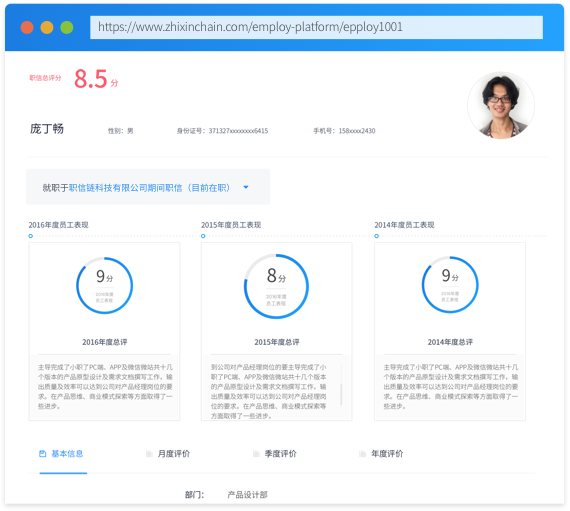
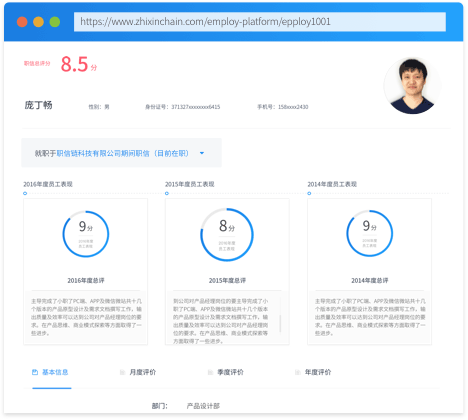
2018-1-16职链3+n版

diff --git a/public/css/app.css b/public/css/app.css
@@ -1939,8 +1939,6 @@ html .wrap .c-body .c-component-vouchers .vouchers-3, body .wrap .c-body .c-comp
 .wrap .component-index {
   /* 头部 */
   /*第二屏开始*/
-  /*标题*/
-  /*小标题*/
   /*内容*/
   /*第二屏结束*/
   /*第三屏*/
@@ -1974,9 +1972,6 @@ html .wrap .c-body .c-component-vouchers .vouchers-3, body .wrap .c-body .c-comp
     white-space: nowrap; }
   .wrap .component-index .head-menu-userInfo .span-hand {
     cursor: pointer; }
-  .wrap .component-index .zi18 {
-    font-size: 18px;
-    margin-bottom: 133px; }
   .wrap .component-index a {
     text-decoration: none; }
   .wrap .component-index .head_fixed {
@@ -1996,22 +1991,27 @@ html .wrap .c-body .c-component-vouchers .vouchers-3, body .wrap .c-body .c-comp
       padding-top: 14px;
       padding-right: 60px; }
     .wrap .component-index #header .menu {
-      float: left; }
+      float: left;
+      width: 950px;
+      font-size: 16px; }
       .wrap .component-index #header .menu li {
         float: left;
-        margin: 0 24px;
+        margin-left: 40px;
         list-style-type: none;
-        padding-top: 34px;
-        width: 100px;
+        padding-top: 40px;
         text-align: center; }
         .wrap .component-index #header .menu li.cur {
           height: 99px;
           border-bottom: 2px solid #FE8C5F; }
-        .wrap .component-index #header .menu li.buy {
-          cursor: pointer;
-          width: 100%;
-          display: block;
-          color: #FF500A; }
+        .wrap .component-index #header .menu li.menu-try {
+          width: 64px;
+          color: #FF500A;
+          margin-left: 24px;
+          cursor: pointer; }
+        .wrap .component-index #header .menu li.menu-buy {
+          width: 64px;
+          color: #FF500A;
+          cursor: pointer; }
         .wrap .component-index #header .menu li.select {
           cursor: pointer; }
         .wrap .component-index #header .menu li a {
@@ -2019,11 +2019,16 @@ html .wrap .c-body .c-component-vouchers .vouchers-3, body .wrap .c-body .c-comp
           cursor: pointer;
           width: 100%;
           display: block; }
+        .wrap .component-index #header .menu li.loginAndSignIn {
+          width: 205px;
+          padding-top: 26px; }
+        .wrap .component-index #header .menu li.SignIn {
+          width: 120px; }
   .wrap .component-index #index {
     height: 524px;
     min-width: 1400px; }
     .wrap .component-index #index .banner-1 {
-      padding-top: 178px;
+      padding-top: 160px;
       text-align: center;
       color: white;
       font-size: 64px; }
@@ -2049,21 +2054,25 @@ html .wrap .c-body .c-component-vouchers .vouchers-3, body .wrap .c-body .c-comp
         color: white;
         cursor: pointer; }
   .wrap .component-index .zi48 {
-    font-size: 48px;
+    font-size: 36px;
     color: #40BEFF;
     line-height: 48px;
     display: inline-block;
     margin: 0 auto;
     padding: 0 80px; }
-  .wrap .component-index .title {
-    height: 140px;
-    /*块内元素居中*/
-    text-align: center;
-    margin-top: 133px; }
-  .wrap .component-index .title2 {
-    text-align: center;
-    padding-top: 20px;
-    line-height: 28px; }
+  .wrap .component-index #about {
+    /*标题*/
+    /*小标题*/ }
+    .wrap .component-index #about .title {
+      /*块内元素居中*/
+      text-align: center;
+      margin-top: 100px; }
+    .wrap .component-index #about .title2 {
+      text-align: center;
+      padding-top: 44px;
+      line-height: 28px; }
+    .wrap .component-index #about .title3 {
+      margin-top: 60px; }
   .wrap .component-index .title3 {
     text-align: justify;
     padding-top: 20px;
@@ -2073,10 +2082,15 @@ html .wrap .c-body .c-component-vouchers .vouchers-3, body .wrap .c-body .c-comp
   .wrap .component-index .bkColor-1 {
     background-color: #f5f5f4; }
   .wrap .component-index .part-2 {
-    width: 1200px;
+    width: 1100px;
     margin: 0 auto;
-    padding-top: 136px;
-    padding-bottom: 144px; }
+    padding-top: 100px; }
+    .wrap .component-index .part-2.guji2 {
+      padding-top: 0; }
+      .wrap .component-index .part-2.guji2 .part-2-1.g2-1 {
+        margin-right: 40px;
+        width: 440px;
+        padding-top: 80px; }
   .wrap .component-index .part-2-1 {
     width: 560px;
     height: 501px;
@@ -2085,21 +2099,21 @@ html .wrap .c-body .c-component-vouchers .vouchers-3, body .wrap .c-body .c-comp
     .wrap .component-index .part-2-1 span {
       color: #40BEFF; }
     .wrap .component-index .part-2-1 .zi24 {
-      width: 360px;
+      width: 460px;
       text-align: left;
-      margin-top: 50px;
-      margin-bottom: 50px;
+      margin-bottom: 0px;
       line-height: 40px; }
   .wrap .component-index .zi24 {
     font-size: 24px;
     color: #4A4A4A; }
   .wrap .component-index .part-2-2 {
     text-align: left;
-    margin-top: 40px; }
+    margin-top: 30px; }
     .wrap .component-index .part-2-2 .zi14 {
-      width: 300px;
+      width: 400px;
+      font-size: 16px;
       text-align: justify;
-      line-height: 20px;
+      line-height: 1.5;
       display: inline-block; }
     .wrap .component-index .part-2-2 img {
       padding-right: 20px;
@@ -2175,8 +2189,9 @@ html .wrap .c-body .c-component-vouchers .vouchers-3, body .wrap .c-body .c-comp
       color: #ffffff;
       cursor: pointer; }
   .wrap .component-index #page9 {
-    background-color: #f5f5f4;
     padding-top: 1px; }
+    .wrap .component-index #page9 .title {
+      text-align: center; }
   .wrap .component-index .part-9 {
     margin: 60px auto;
     text-align: center;
@@ -2261,7 +2276,8 @@ html .wrap .c-body .c-component-vouchers .vouchers-3, body .wrap .c-body .c-comp
     text-align: center;
     font-size: 12px;
     float: left;
-    margin: 100px 60px; }
+    margin-top: 120px;
+    margin-left: 20px; }
   .wrap .component-index .backBase a {
     text-decoration: none;
     out-line: none;
@@ -2282,36 +2298,43 @@ html .wrap .c-body .c-component-vouchers .vouchers-3, body .wrap .c-body .c-comp
   .wrap .component-index #index {
     position: relative; }
   .wrap .component-index #content2 {
-    padding-top: 95px; }
+    position: relative; }
   .wrap .component-index .qk_jiedianNum {
     width: 1186px;
-    margin: 0 auto;
     border-radius: 4px;
     background-color: #ffffff;
     box-shadow: 0 0 6px 0 #55a4ff;
-    border: 4px solid #5FADFF; }
+    border: 2px solid #5FADFF;
+    margin: 0 auto;
+    margin-top: -50px; }
     .wrap .component-index .qk_jiedianNum .qk_jiedianNum_1 {
       background: url(../../public/images/index/jiedian_line.png) right center no-repeat;
       width: 292px;
-      margin-top: 26px;
-      margin-bottom: 20px;
+      margin-top: 14px;
+      margin-bottom: 14px;
       overflow: hidden;
       display: inline-block; }
       .wrap .component-index .qk_jiedianNum .qk_jiedianNum_1 img {
         display: inline-block;
-        vertical-align: top;
-        margin-left: 36px; }
+        /* vertical-align: top; */
+        margin-left: 36px;
+        vertical-align: middle; }
       .wrap .component-index .qk_jiedianNum .qk_jiedianNum_1 .qk_jiedianNum_1_1 {
-        display: inline-block; }
+        display: inline-block;
+        vertical-align: middle; }
       .wrap .component-index .qk_jiedianNum .qk_jiedianNum_1 .p1 {
         font-size: 24px;
         color: #1B7DE2;
-        margin-left: 33px; }
+        display: inline-block;
+        margin-left: 33px;
+        vertical-align: middle; }
       .wrap .component-index .qk_jiedianNum .qk_jiedianNum_1 .p2 {
         font-size: 16px;
         color: #4a4a4a;
+        display: inline-block;
+        font-weight: bold;
         margin-left: 33px;
-        margin-top: 9px; }
+        vertical-align: middle; }
     .wrap .component-index .qk_jiedianNum .qk_jiedianNum_2 {
       background: none; }
   .wrap .component-index .qk_numShow {
@@ -2368,6 +2391,61 @@ html .wrap .c-body .c-component-vouchers .vouchers-3, body .wrap .c-body .c-comp
     border-radius: 6px;
     margin-left: 12px;
     cursor: pointer; }
+  .wrap .component-index #text_lt .block-content2 {
+    position: relative;
+    z-index: 1; }
+  .wrap .component-index #text_lt .block-content4 {
+    padding-top: 60px;
+    background-color: #fbfbfb; }
+    .wrap .component-index #text_lt .block-content4 .title {
+      text-align: center; }
+    .wrap .component-index #text_lt .block-content4 .subTitle {
+      font-size: 16px;
+      color: #141414;
+      padding-bottom: 60px; }
+      .wrap .component-index #text_lt .block-content4 .subTitle.sub2 {
+        margin-top: 100px; }
+    .wrap .component-index #text_lt .block-content4 .part-9 {
+      margin-top: 60px; }
+  .wrap .component-index #text_lt .block-content5 .part-9 {
+    margin-bottom: 0; }
+  .wrap .component-index #text_lt .block-content6 .title {
+    text-align: center; }
+  .wrap .component-index #text_lt .block-content7 {
+    padding-top: 80px;
+    background-color: #fbfbfb; }
+    .wrap .component-index #text_lt .block-content7 .title, .wrap .component-index #text_lt .block-content7 .subTitle {
+      text-align: center; }
+    .wrap .component-index #text_lt .block-content7 .subTitle {
+      margin-top: 40px; }
+    .wrap .component-index #text_lt .block-content7 .part-9 {
+      margin-top: 0;
+      margin-bottom: 0;
+      padding-bottom: 120px; }
+  .wrap .component-index #text_lt .block-content8 {
+    background-color: #fbfbfb; }
+    .wrap .component-index #text_lt .block-content8 .title, .wrap .component-index #text_lt .block-content8 .subTitle {
+      text-align: center; }
+    .wrap .component-index #text_lt .block-content8 .subTitle {
+      margin-top: 40px; }
+    .wrap .component-index #text_lt .block-content8 .part-9 {
+      margin-top: 0;
+      margin-bottom: 0;
+      padding-bottom: 60px; }
+  .wrap .component-index #text_lt .block-content9 {
+    padding-top: 60px; }
+    .wrap .component-index #text_lt .block-content9 .title, .wrap .component-index #text_lt .block-content9 .subTitle {
+      text-align: center; }
+    .wrap .component-index #text_lt .block-content9 .subTitle {
+      margin-top: 40px; }
+    .wrap .component-index #text_lt .block-content9 .part-9 {
+      margin-top: 0; }
+  .wrap .component-index #text_lt .block-content10 {
+    padding: 15px;
+    text-align: center; }
+    .wrap .component-index #text_lt .block-content10 a {
+      display: inline-block;
+      padding: 15px 40px; }
 
 .wrap .kefu-lt {
   position: absolute;
